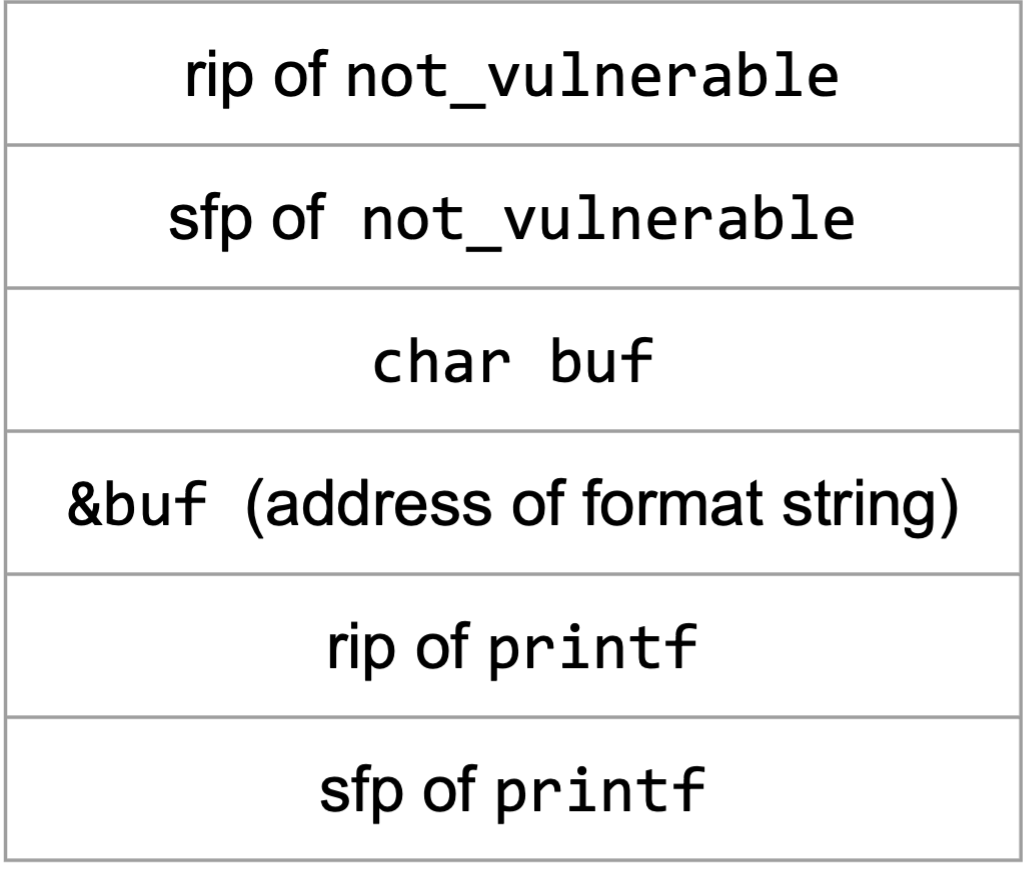
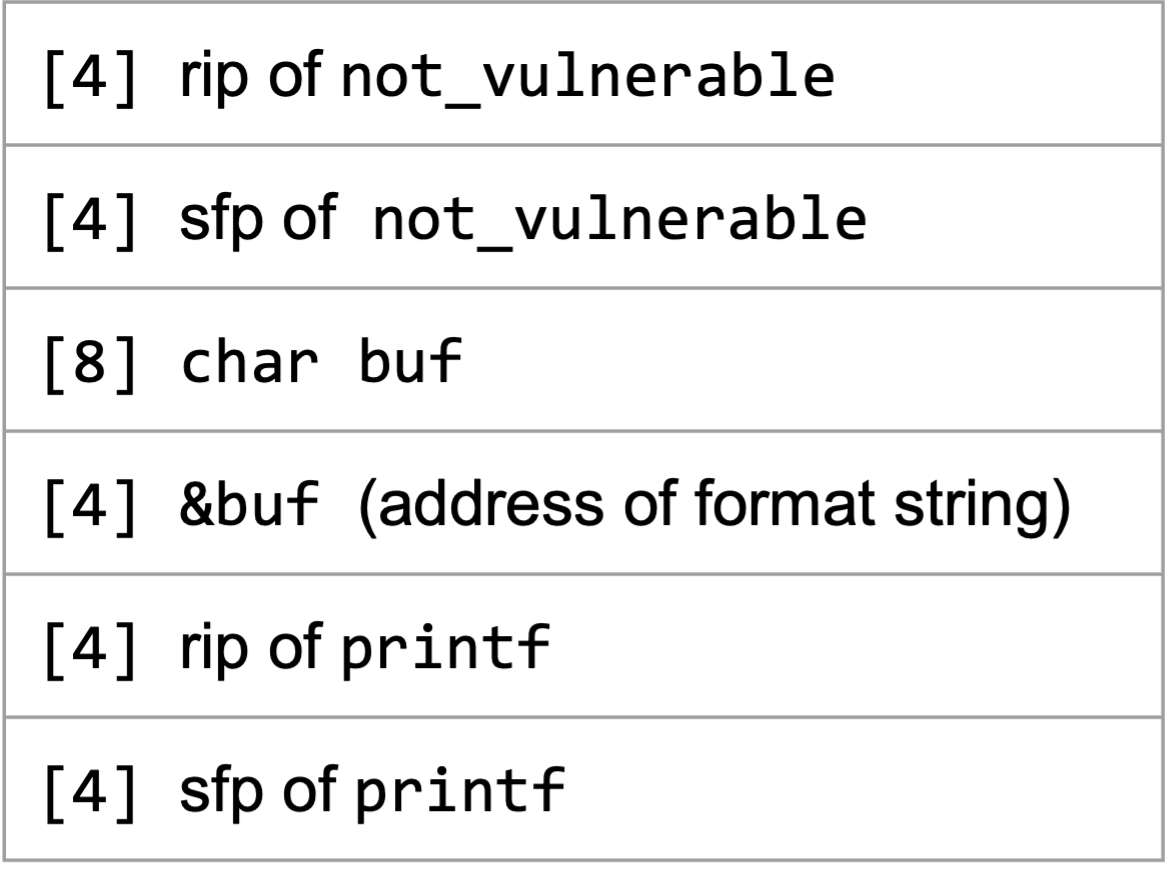
[mem safety] fix code segment + diagram (#73)

diff --git a/memory-safety/vulnerabilities.md b/memory-safety/vulnerabilities.md
@@ -158,7 +158,7 @@ Let's begin this section by walking through a normal printf call. Suppose we had
 ```
 void not_vulnerable() {
     char buf[8];
-    if (fgets(buf, sizeof buf, stdin) == NULL)
+    if (fgets(buf, sizeof(buf), stdin) == NULL)
         return;
     printf(buf);
 }
@@ -167,6 +167,8 @@ void not_vulnerable() {
 The stack diagram for this function would look something like this:
 
 <img src="/assets/images/memory-safety/vulnerabilities/printfnotvulnerable.png" alt="Initial non vulnerable code with printf" width="35%">
+
+This is commonly another way we choose to represent a stack diagram, where each separate value or variable takes up one row and we dictate how many bytes it takes up in brackets to the left. For instance, the `[8] char buf` means that the `buf` character array takes up 8 bytes.
 
 When the `printf()` function executes, it looks for a format string modifier denoted by a “%” in its first argument located 4 bytes above the RIP of `printf()`. If it finds the modifier, it then looks 8 bytes above the RIP for the "actual" argument (i.e. what the format modifier will be acting upon).
 
